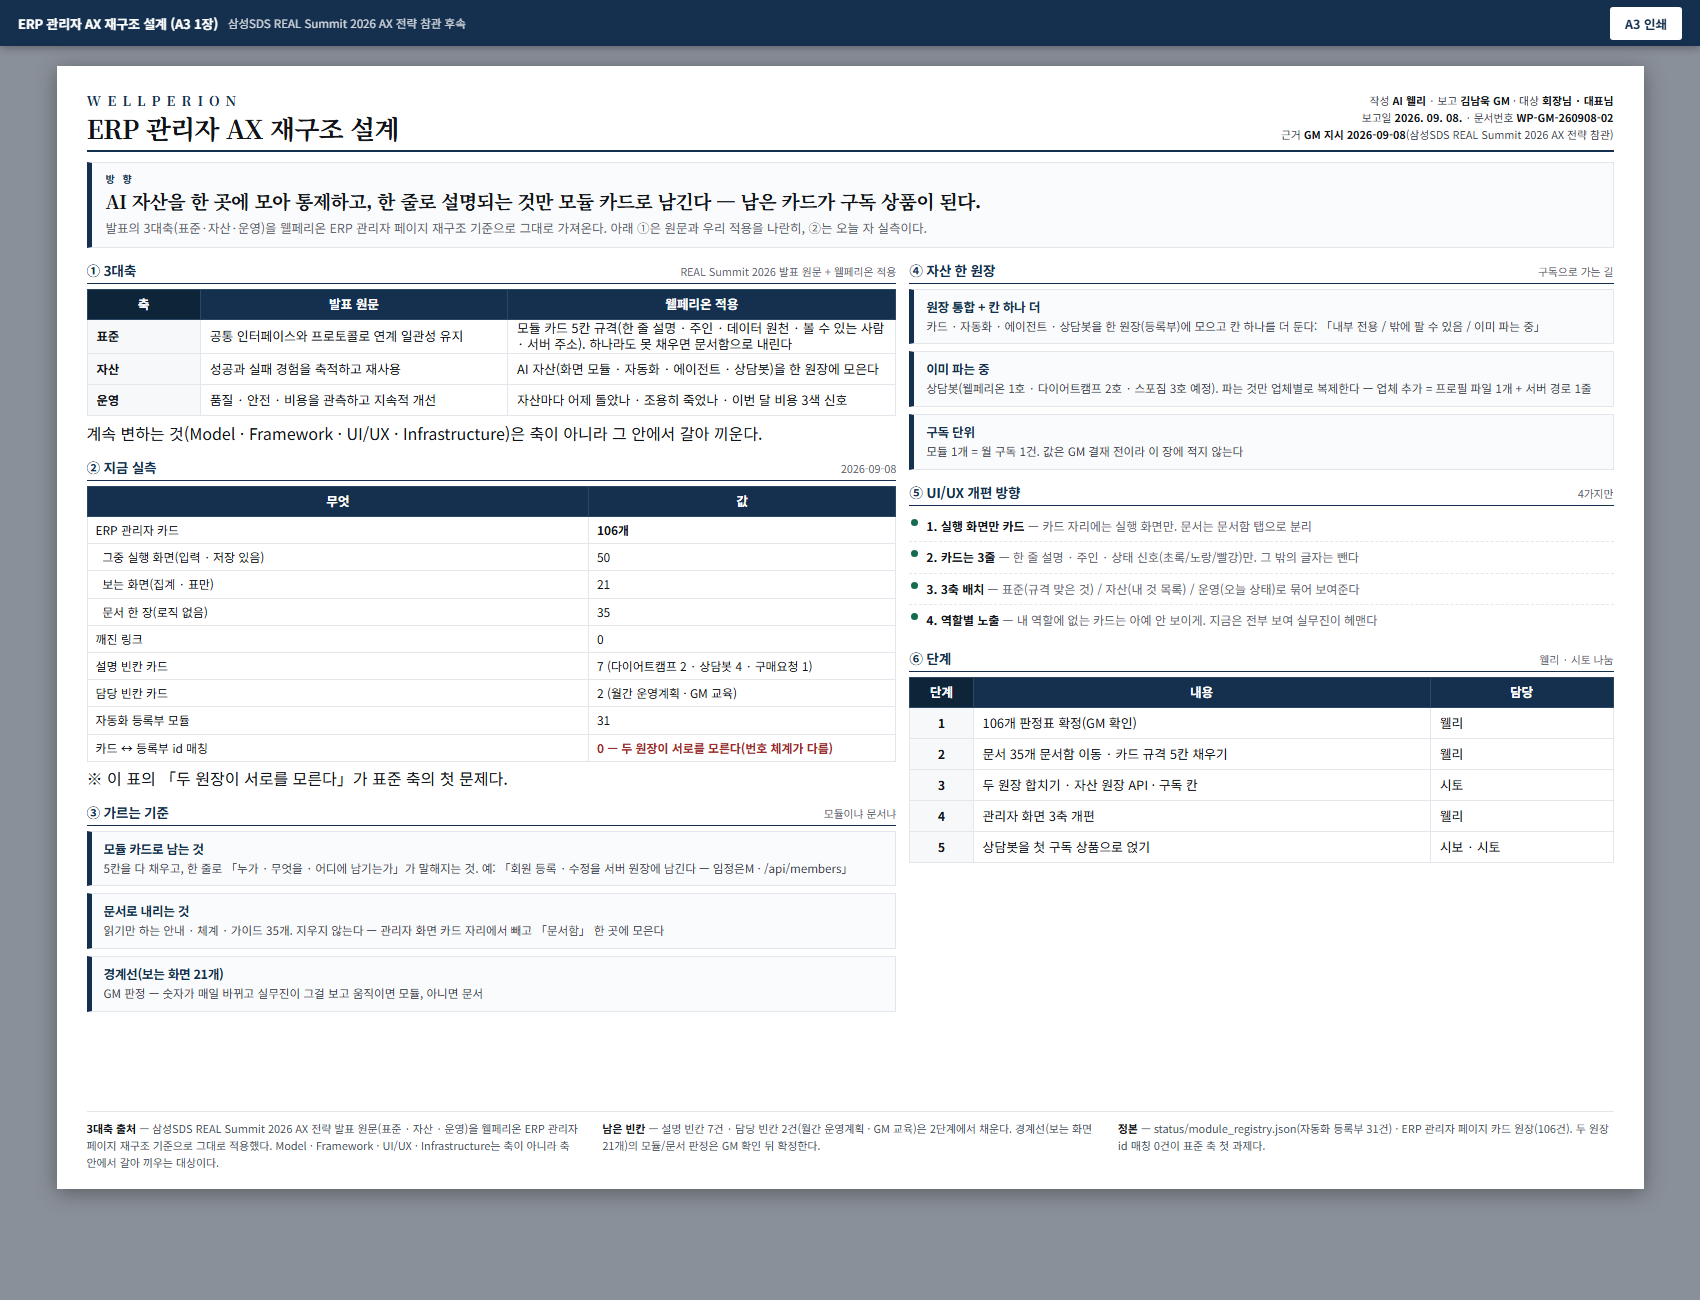
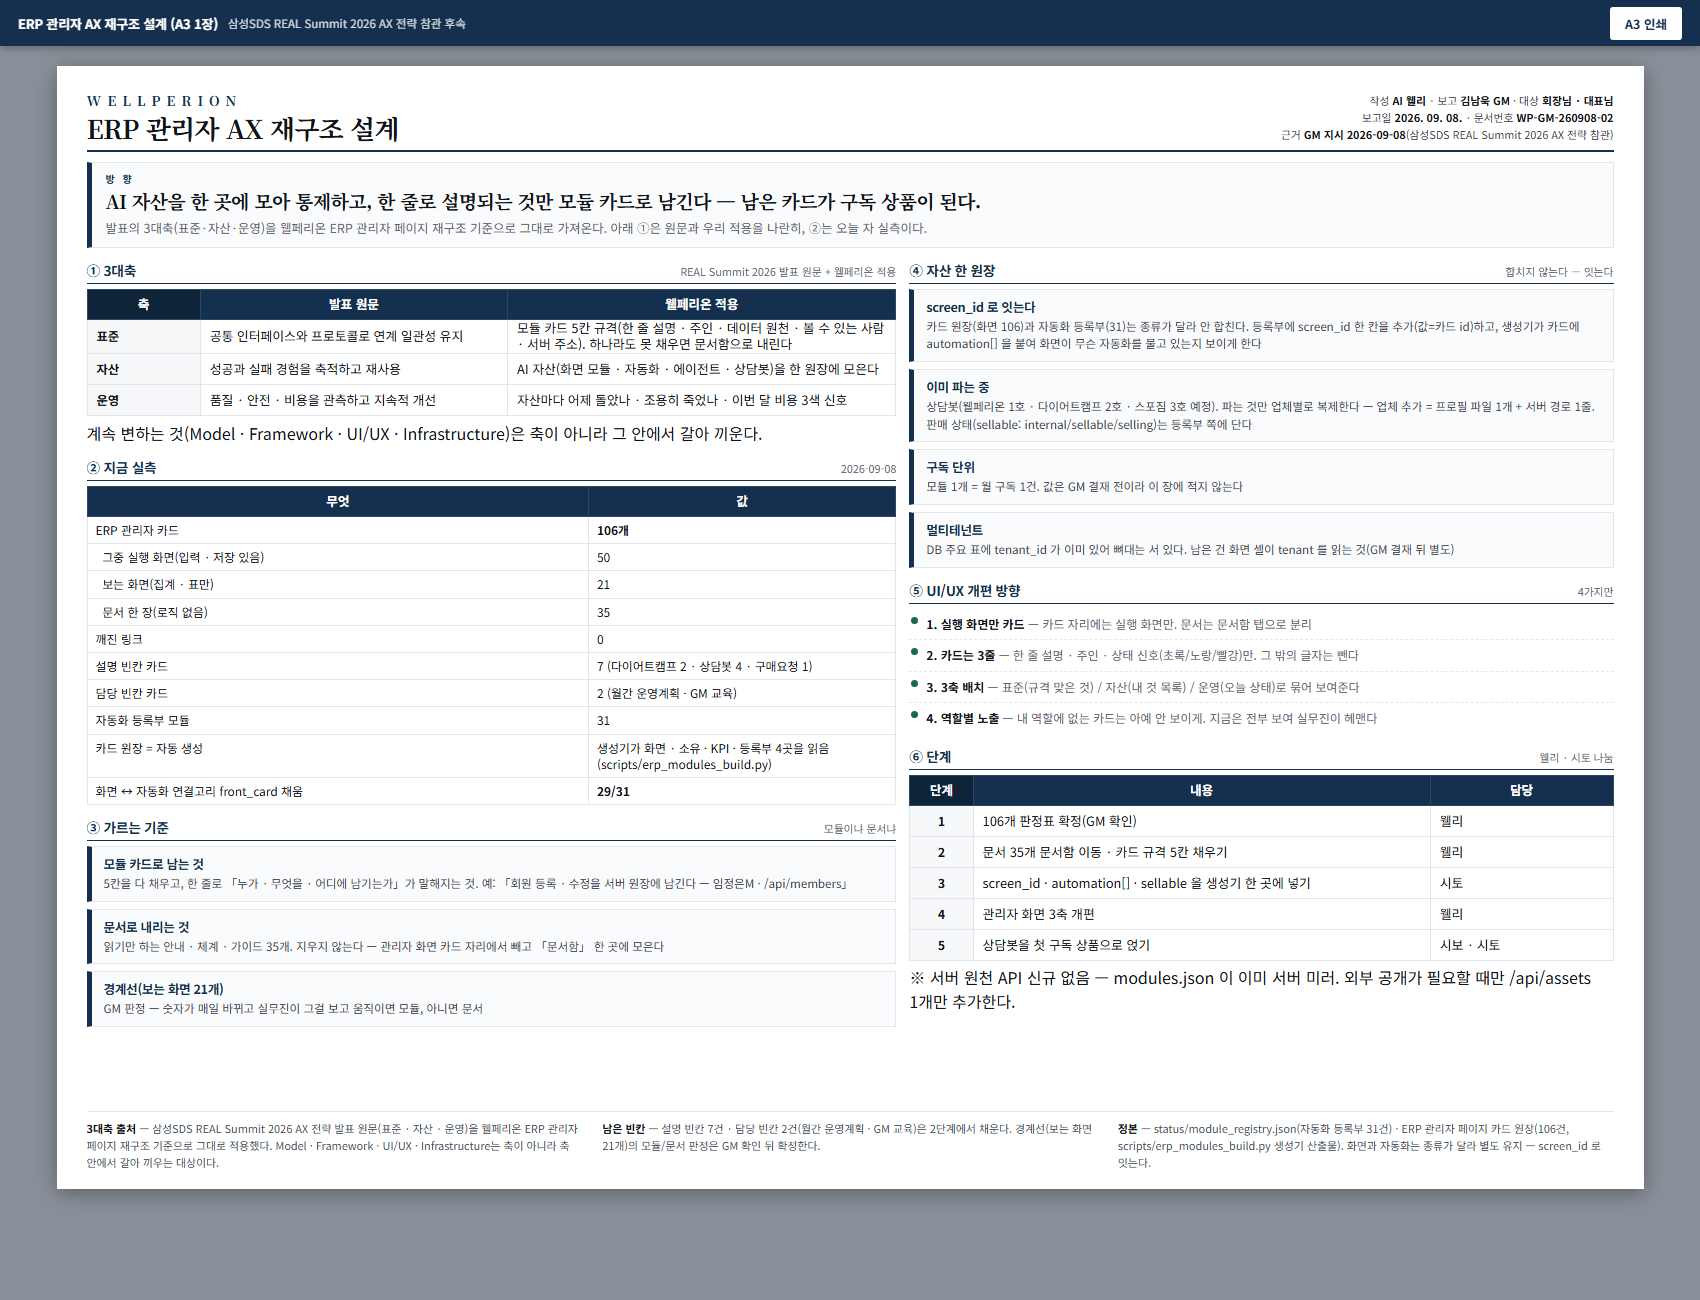
fix(ceo): AX 재구조 A3 정정 — 두 원장 이미 연결(screen_id 로 잇는다) · tenant_id 기반 (배1135 · 시토 실측 반영)
Claude-Session: https://claude.ai/code/session_01HJhno7jbp1ZfDAyg9wdHtJ

diff --git a/3. 웰페리온 가이드/reports/260908_ERP관리자_AX재구조_A3.html b/3. 웰페리온 가이드/reports/260908_ERP관리자_AX재구조_A3.html
@@ -82,10 +82,10 @@
             <tr><td>설명 빈칸 카드</td><td>7 (다이어트캠프 2 · 상담봇 4 · 구매요청 1)</td></tr>
             <tr><td>담당 빈칸 카드</td><td>2 (월간 운영계획 · GM 교육)</td></tr>
             <tr><td>자동화 등록부 모듈</td><td>31</td></tr>
-            <tr><td>카드 ↔ 등록부 id 매칭</td><td class="bad">0 — 두 원장이 서로를 모른다(번호 체계가 다름)</td></tr>
+            <tr><td>카드 원장 = 자동 생성</td><td>생성기가 화면 · 소유 · KPI · 등록부 4곳을 읽음(scripts/erp_modules_build.py)</td></tr>
+            <tr><td>화면 ↔ 자동화 연결고리 front_card 채움</td><td class="strong">29/31</td></tr>
           </tbody>
         </table>
-        <div class="sub" style="margin-top:4px;">※ 이 표의 「두 원장이 서로를 모른다」가 표준 축의 첫 문제다.</div>
       </div>
 
       <div>
@@ -109,18 +109,22 @@
     <div class="right" style="flex:1;">
 
       <div>
-        <div class="sec-h">④ 자산 한 원장 <span class="hint">구독으로 가는 길</span></div>
+        <div class="sec-h">④ 자산 한 원장 <span class="hint">합치지 않는다 — 잇는다</span></div>
         <div class="lineblk">
-          <div class="rl">원장 통합 + 칸 하나 더</div>
-          <div class="rr">카드 · 자동화 · 에이전트 · 상담봇을 한 원장(등록부)에 모으고 칸 하나를 더 둔다: 「내부 전용 / 밖에 팔 수 있음 / 이미 파는 중」</div>
+          <div class="rl">screen_id 로 잇는다</div>
+          <div class="rr">카드 원장(화면 106)과 자동화 등록부(31)는 종류가 달라 안 합친다. 등록부에 screen_id 한 칸을 추가(값=카드 id)하고, 생성기가 카드에 automation[] 을 붙여 화면이 무슨 자동화를 물고 있는지 보이게 한다</div>
         </div>
         <div class="lineblk">
           <div class="rl">이미 파는 중</div>
-          <div class="rr">상담봇(웰페리온 1호 · 다이어트캠프 2호 · 스포짐 3호 예정). 파는 것만 업체별로 복제한다 — 업체 추가 = 프로필 파일 1개 + 서버 경로 1줄</div>
+          <div class="rr">상담봇(웰페리온 1호 · 다이어트캠프 2호 · 스포짐 3호 예정). 파는 것만 업체별로 복제한다 — 업체 추가 = 프로필 파일 1개 + 서버 경로 1줄. 판매 상태(sellable: internal/sellable/selling)는 등록부 쪽에 단다</div>
         </div>
         <div class="lineblk">
           <div class="rl">구독 단위</div>
           <div class="rr">모듈 1개 = 월 구독 1건. 값은 GM 결재 전이라 이 장에 적지 않는다</div>
+        </div>
+        <div class="lineblk">
+          <div class="rl">멀티테넌트</div>
+          <div class="rr">DB 주요 표에 tenant_id 가 이미 있어 뼈대는 서 있다. 남은 건 화면 셸이 tenant 를 읽는 것(GM 결재 뒤 별도)</div>
         </div>
       </div>
 
@@ -142,11 +146,12 @@
           <tbody>
             <tr><td class="k ctr">1</td><td>106개 판정표 확정(GM 확인)</td><td>웰리</td></tr>
             <tr><td class="k ctr">2</td><td>문서 35개 문서함 이동 · 카드 규격 5칸 채우기</td><td>웰리</td></tr>
-            <tr><td class="k ctr">3</td><td>두 원장 합치기 · 자산 원장 API · 구독 칸</td><td>시토</td></tr>
+            <tr><td class="k ctr">3</td><td>screen_id · automation[] · sellable 을 생성기 한 곳에 넣기</td><td>시토</td></tr>
             <tr><td class="k ctr">4</td><td>관리자 화면 3축 개편</td><td>웰리</td></tr>
             <tr><td class="k ctr">5</td><td>상담봇을 첫 구독 상품으로 얹기</td><td>시보 · 시토</td></tr>
           </tbody>
         </table>
+        <div class="sub" style="margin-top:4px;">※ 서버 원천 API 신규 없음 — modules.json 이 이미 서버 미러. 외부 공개가 필요할 때만 /api/assets 1개만 추가한다.</div>
       </div>
 
     </div>
@@ -155,7 +160,7 @@
   <div class="foot">
     <div><b>3대축 출처</b> — 삼성SDS REAL Summit 2026 AX 전략 발표 원문(표준 · 자산 · 운영)을 웰페리온 ERP 관리자 페이지 재구조 기준으로 그대로 적용했다. Model · Framework · UI/UX · Infrastructure는 축이 아니라 축 안에서 갈아 끼우는 대상이다.</div>
     <div><b>남은 빈칸</b> — 설명 빈칸 7건 · 담당 빈칸 2건(월간 운영계획 · GM 교육)은 2단계에서 채운다. 경계선(보는 화면 21개)의 모듈/문서 판정은 GM 확인 뒤 확정한다.</div>
-    <div><b>정본</b> — status/module_registry.json(자동화 등록부 31건) · ERP 관리자 페이지 카드 원장(106건). 두 원장 id 매칭 0건이 표준 축 첫 과제다.</div>
+    <div><b>정본</b> — status/module_registry.json(자동화 등록부 31건) · ERP 관리자 페이지 카드 원장(106건, scripts/erp_modules_build.py 생성기 산출물). 화면과 자동화는 종류가 달라 별도 유지 — screen_id 로 잇는다.</div>
   </div>
 
 </div>
